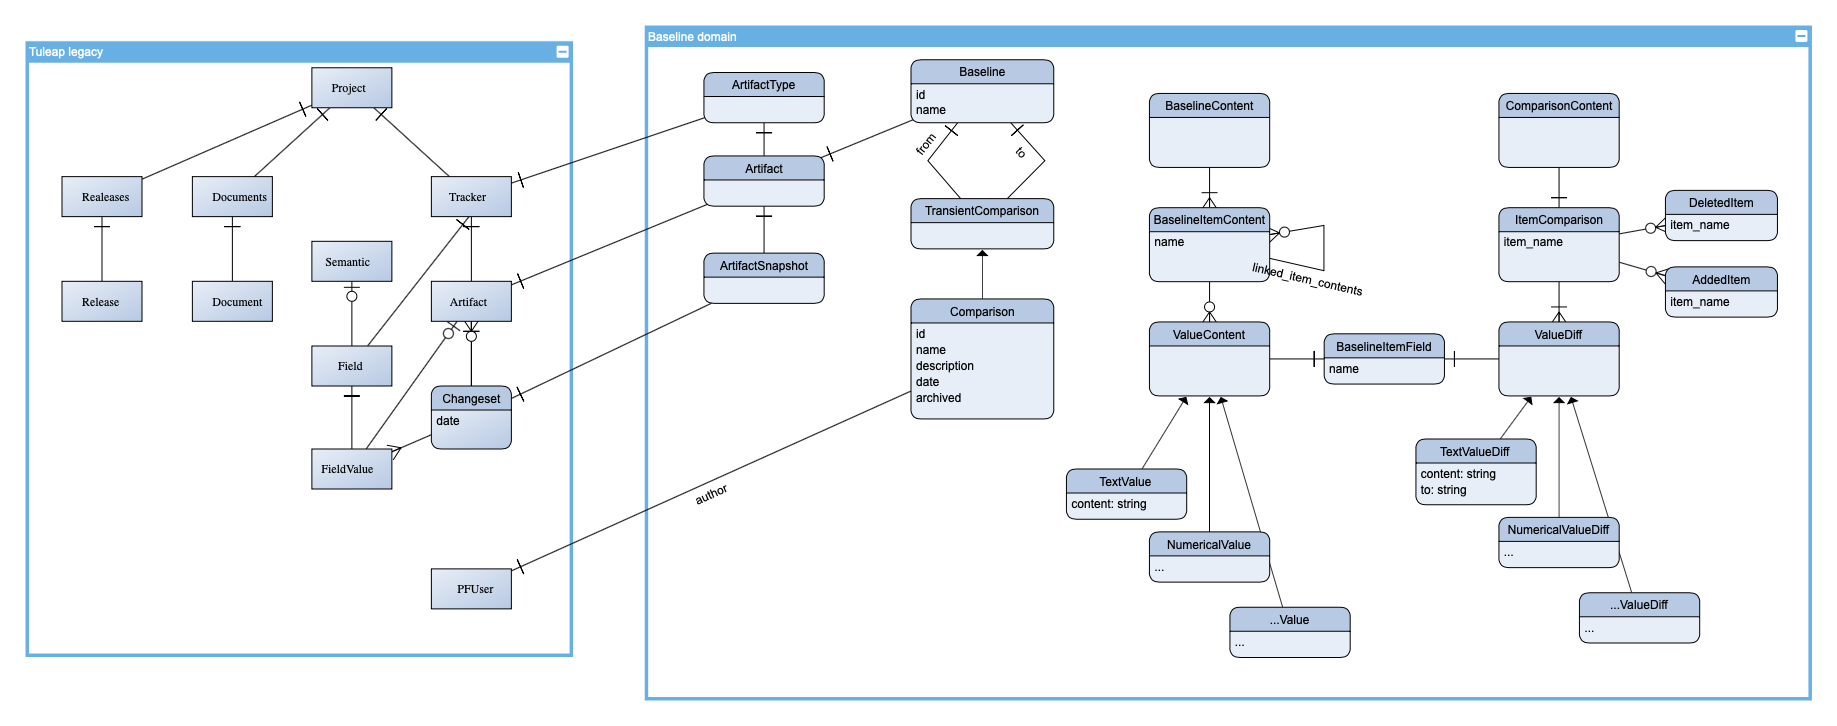
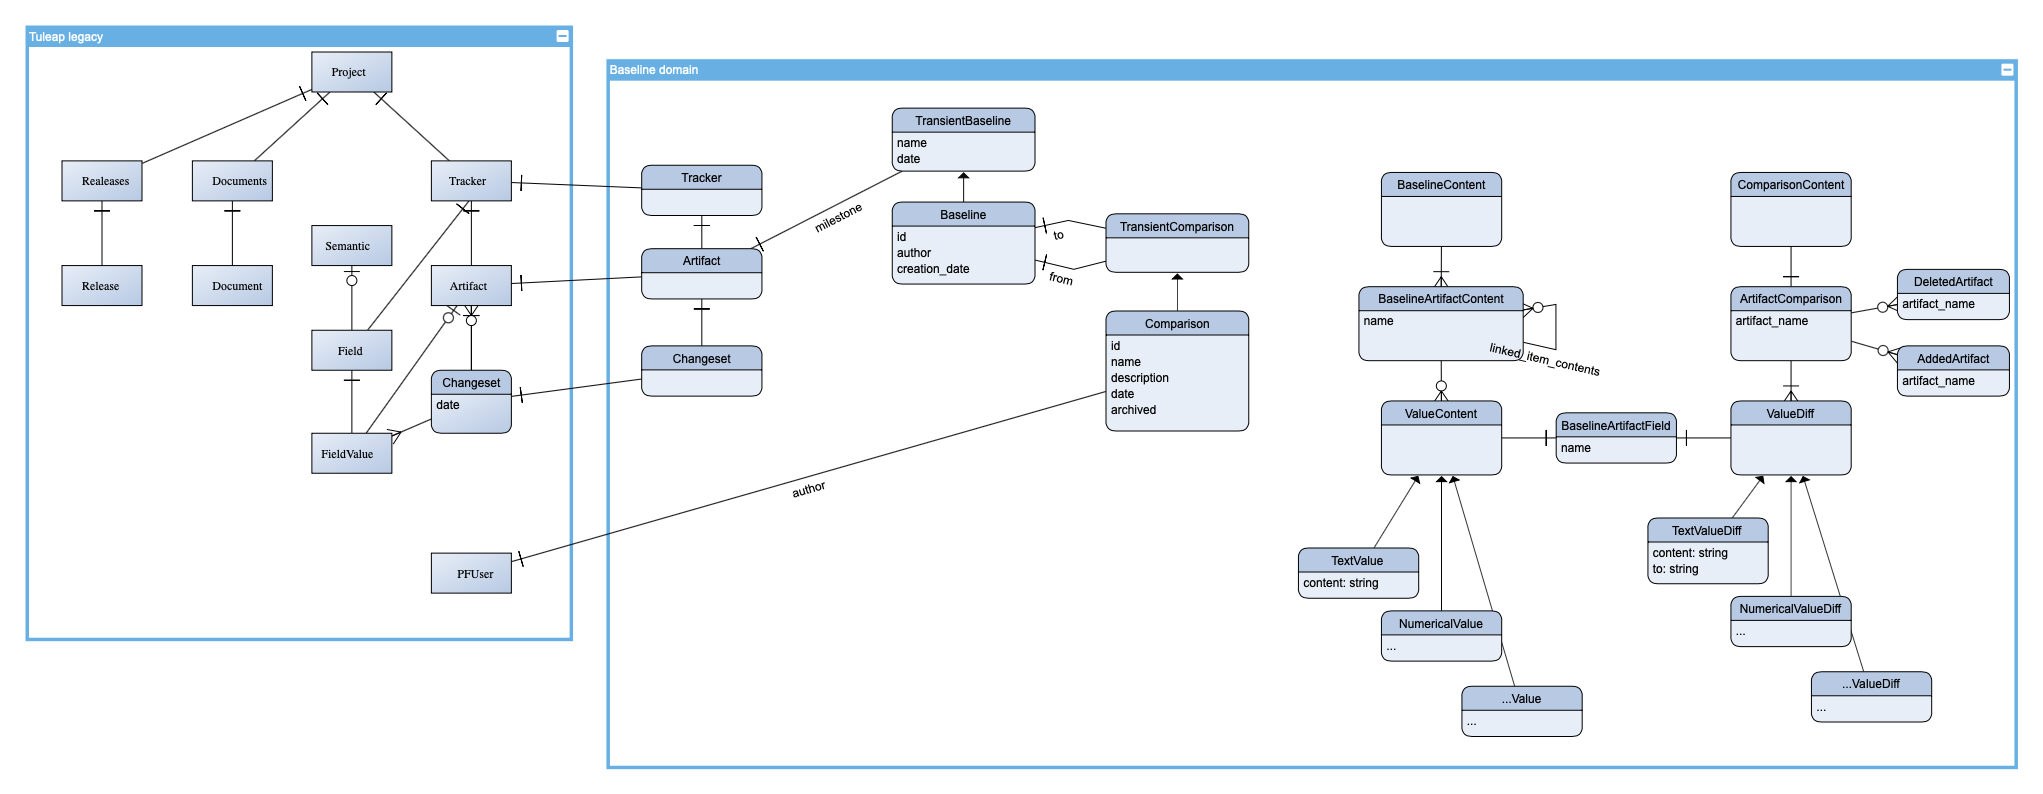
Link baseline to a milestone (instead of a release)
Part of epic #12142 Baseline v1

A release is a particular milestone.
But we don't see any good reason to restrict baselines on release.

Changed region(s): [[0.0, 0.0303, 0.9929, 0.9697], [0.0, 0.8788, 0.3103, 0.9091], [0.6826, 0.5758, 0.7447, 0.6364]]

diff --git a/phpunit/Baseline/BaselineServiceTest.php b/phpunit/Baseline/BaselineServiceTest.php
@@ -82,7 +82,7 @@ class BaselineServiceTest extends TestCase
 
     public function testCreate()
     {
-        $transient_baseline = new TransientBaseline('name', $this->buildARelease());
+        $transient_baseline = new TransientBaseline('name', $this->buildAMilestone());
 
         $created_baseline = $this->buildABaseline();
         $this->baseline_repository
@@ -104,8 +104,8 @@ class BaselineServiceTest extends TestCase
     {
         return new Baseline(
             1,
-            'Release startup',
-            $this->buildARelease(),
+            'Milestone startup',
+            $this->buildAMilestone(),
             $this->buildAUser(),
             $this->buildADateTime()
         );
@@ -119,7 +119,7 @@ class BaselineServiceTest extends TestCase
     /**
      * @return Tracker_Artifact|MockInterface
      */
-    private function buildARelease()
+    private function buildAMilestone()
     {
         return Mockery::mock(Tracker_Artifact::class);
     }

diff --git a/include/Baseline/TransientBaseline.php b/include/Baseline/TransientBaseline.php
@@ -32,12 +32,12 @@ class TransientBaseline
     private $name;
 
     /** @var Tracker_Artifact */
-    private $release;
+    private $milestone;
 
-    public function __construct(string $name, Tracker_Artifact $release)
+    public function __construct(string $name, Tracker_Artifact $milestone)
     {
-        $this->name    = $name;
-        $this->release = $release;
+        $this->name      = $name;
+        $this->milestone = $milestone;
     }
 
     public function getName(): string
@@ -45,8 +45,8 @@ class TransientBaseline
         return $this->name;
     }
 
-    public function getRelease(): Tracker_Artifact
+    public function getMilestone(): Tracker_Artifact
     {
-        return $this->release;
+        return $this->milestone;
     }
 }

diff --git a/include/Baseline/BaselineRepository.php b/include/Baseline/BaselineRepository.php
@@ -37,7 +37,7 @@ class BaselineRepository extends DataAccessObject
             'plugin_baseline_baseline',
             [
                 'name'          => $baseline->getName(),
-                'artifact_id'   => $baseline->getRelease()->getId(),
+                'artifact_id'   => $baseline->getMilestone()->getId(),
                 'user_id'       => $current_user->getId(),
                 'creation_date' => $creation_date->getTimestamp()
             ]
@@ -46,7 +46,7 @@ class BaselineRepository extends DataAccessObject
         return new Baseline(
             $id,
             $baseline->getName(),
-            $baseline->getRelease(),
+            $baseline->getMilestone(),
             $current_user,
             $creation_date
         );

diff --git a/include/Baseline/Baseline.php b/include/Baseline/Baseline.php
@@ -42,11 +42,11 @@ class Baseline extends TransientBaseline
     public function __construct(
         int $id,
         string $name,
-        Tracker_Artifact $release,
+        Tracker_Artifact $milestone,
         PFUser $author,
         DateTime $creation_date
     ) {
-        parent::__construct($name, $release);
+        parent::__construct($name, $milestone);
         $this->id            = $id;
         $this->author        = $author;
         $this->creation_date = $creation_date;

diff --git a/doc/README.md b/doc/README.md
@@ -1,3 +1,7 @@
-# Diagrams
+# Data model
 
+Draft of target data model. This will be updated progressively during implementation.
+![alt text](data_model.png)
+
+# Appendices
 Diagrams are created with [yEd live](https://www.yworks.com/yed-live/).
